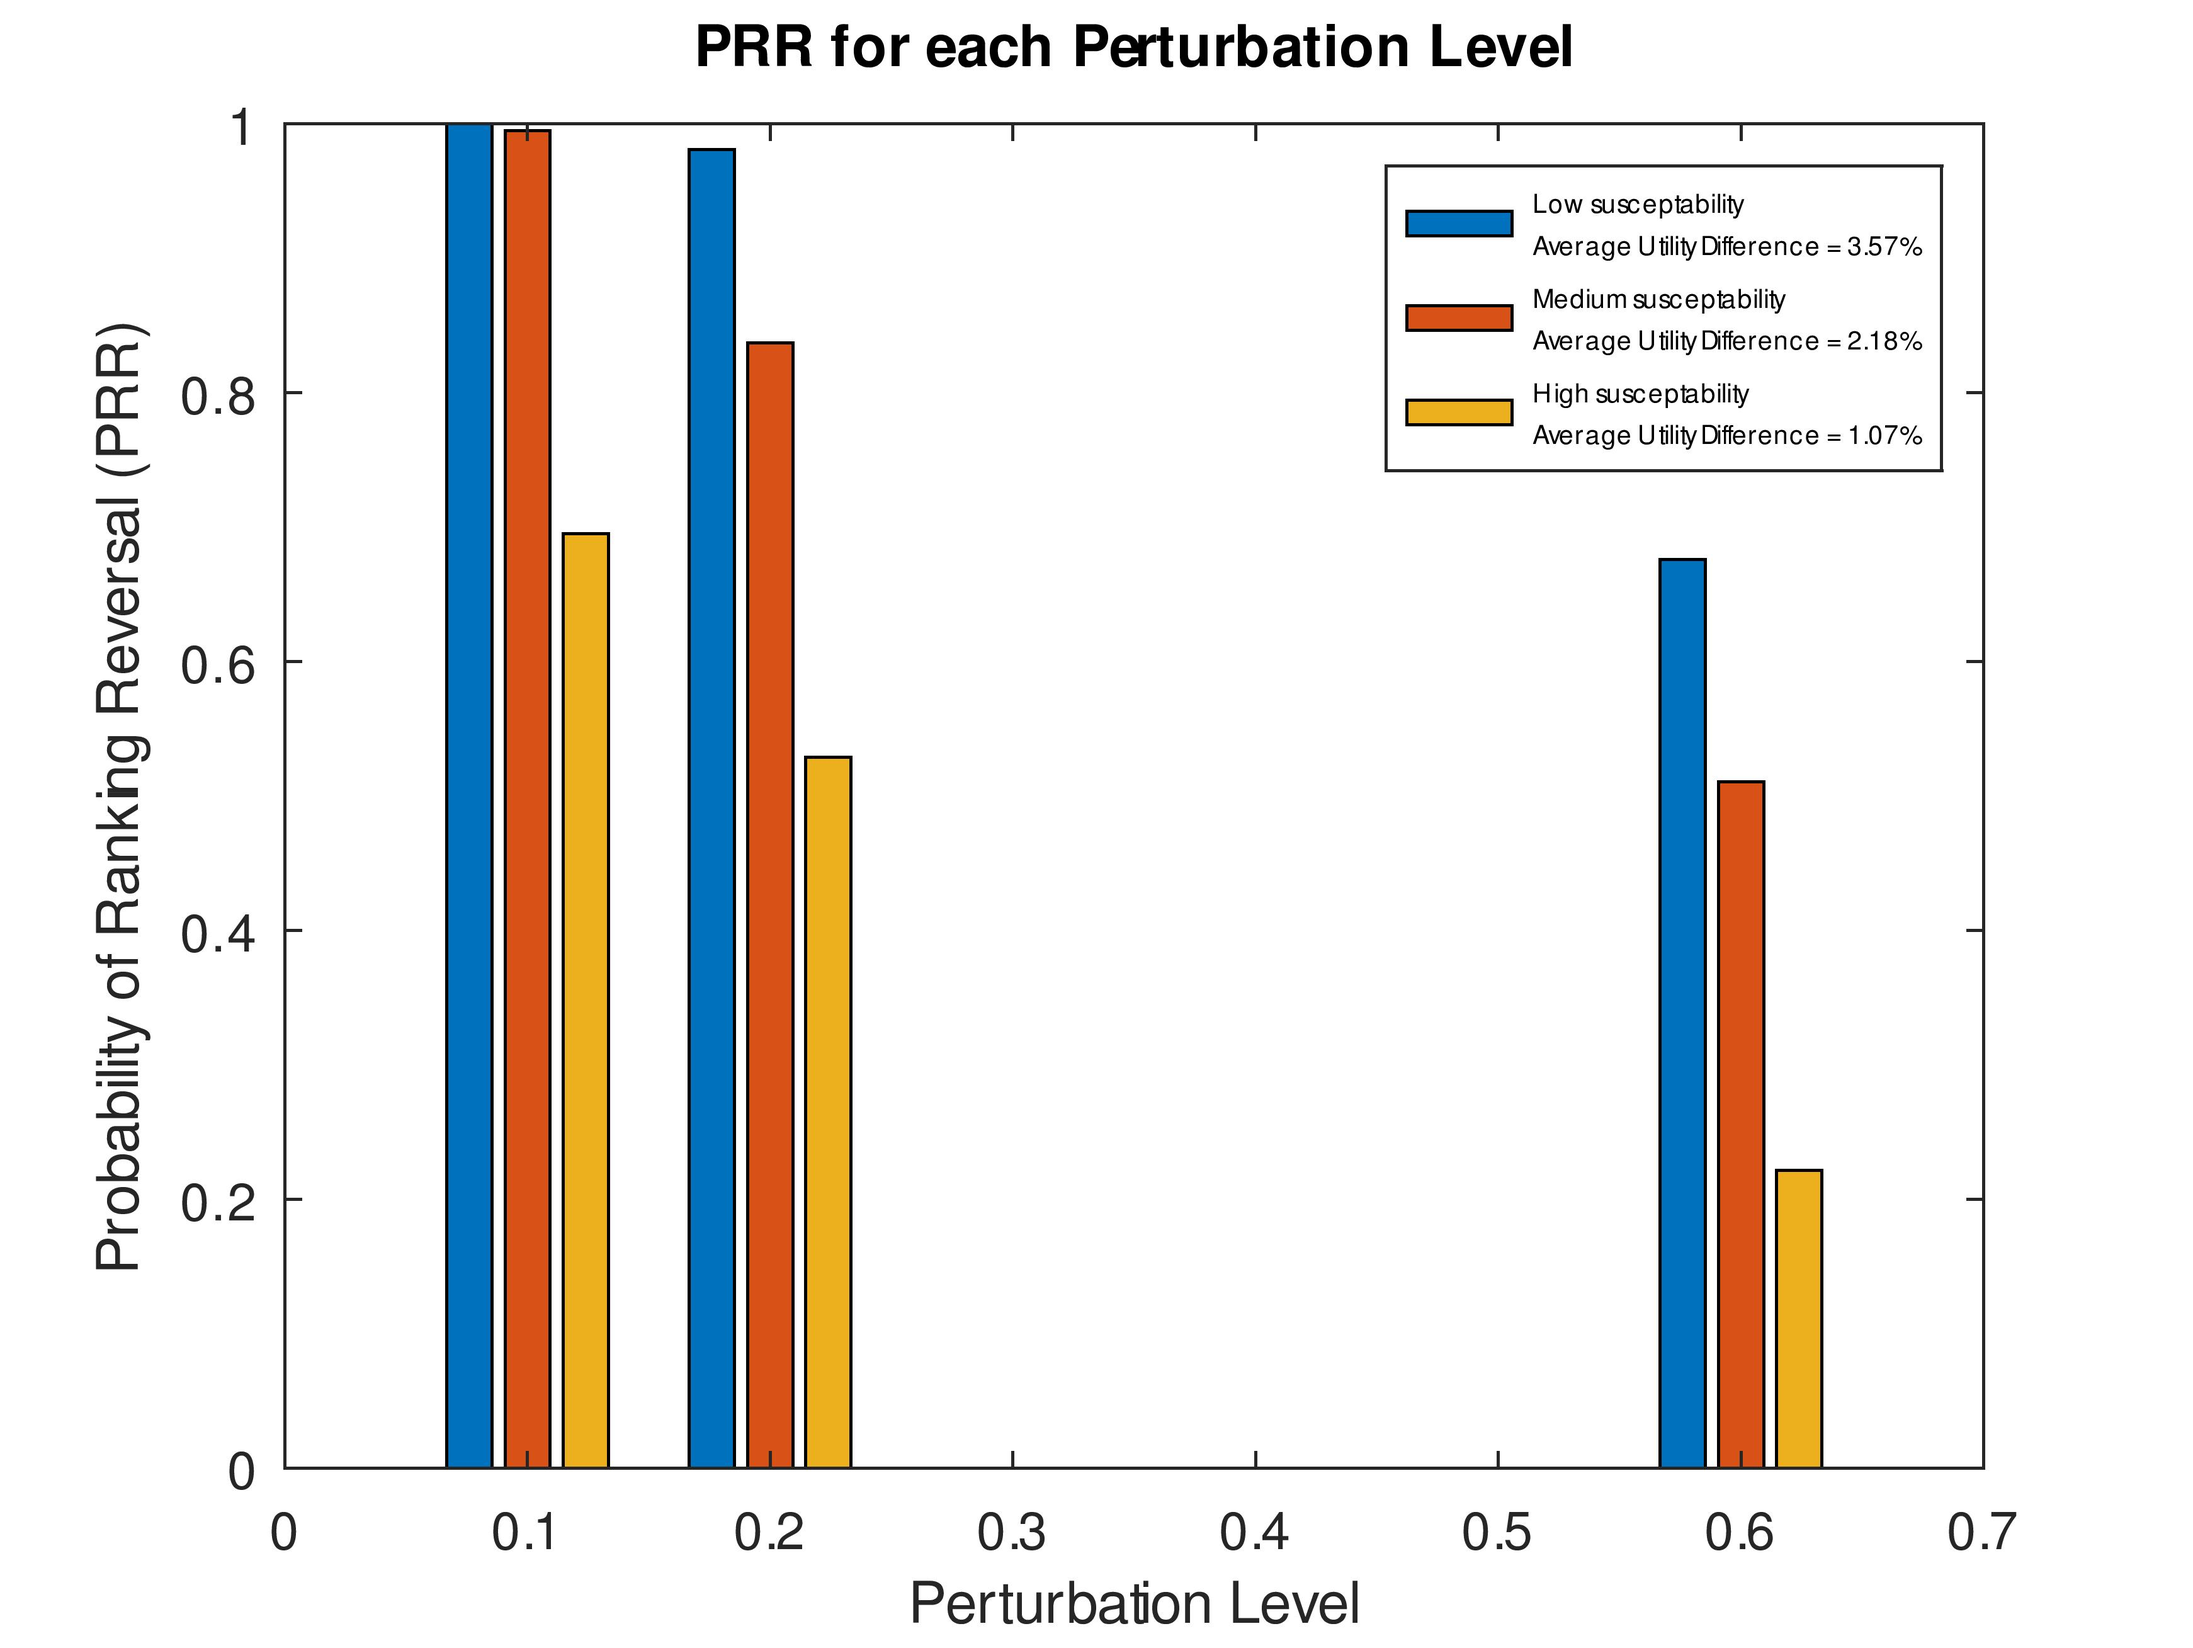
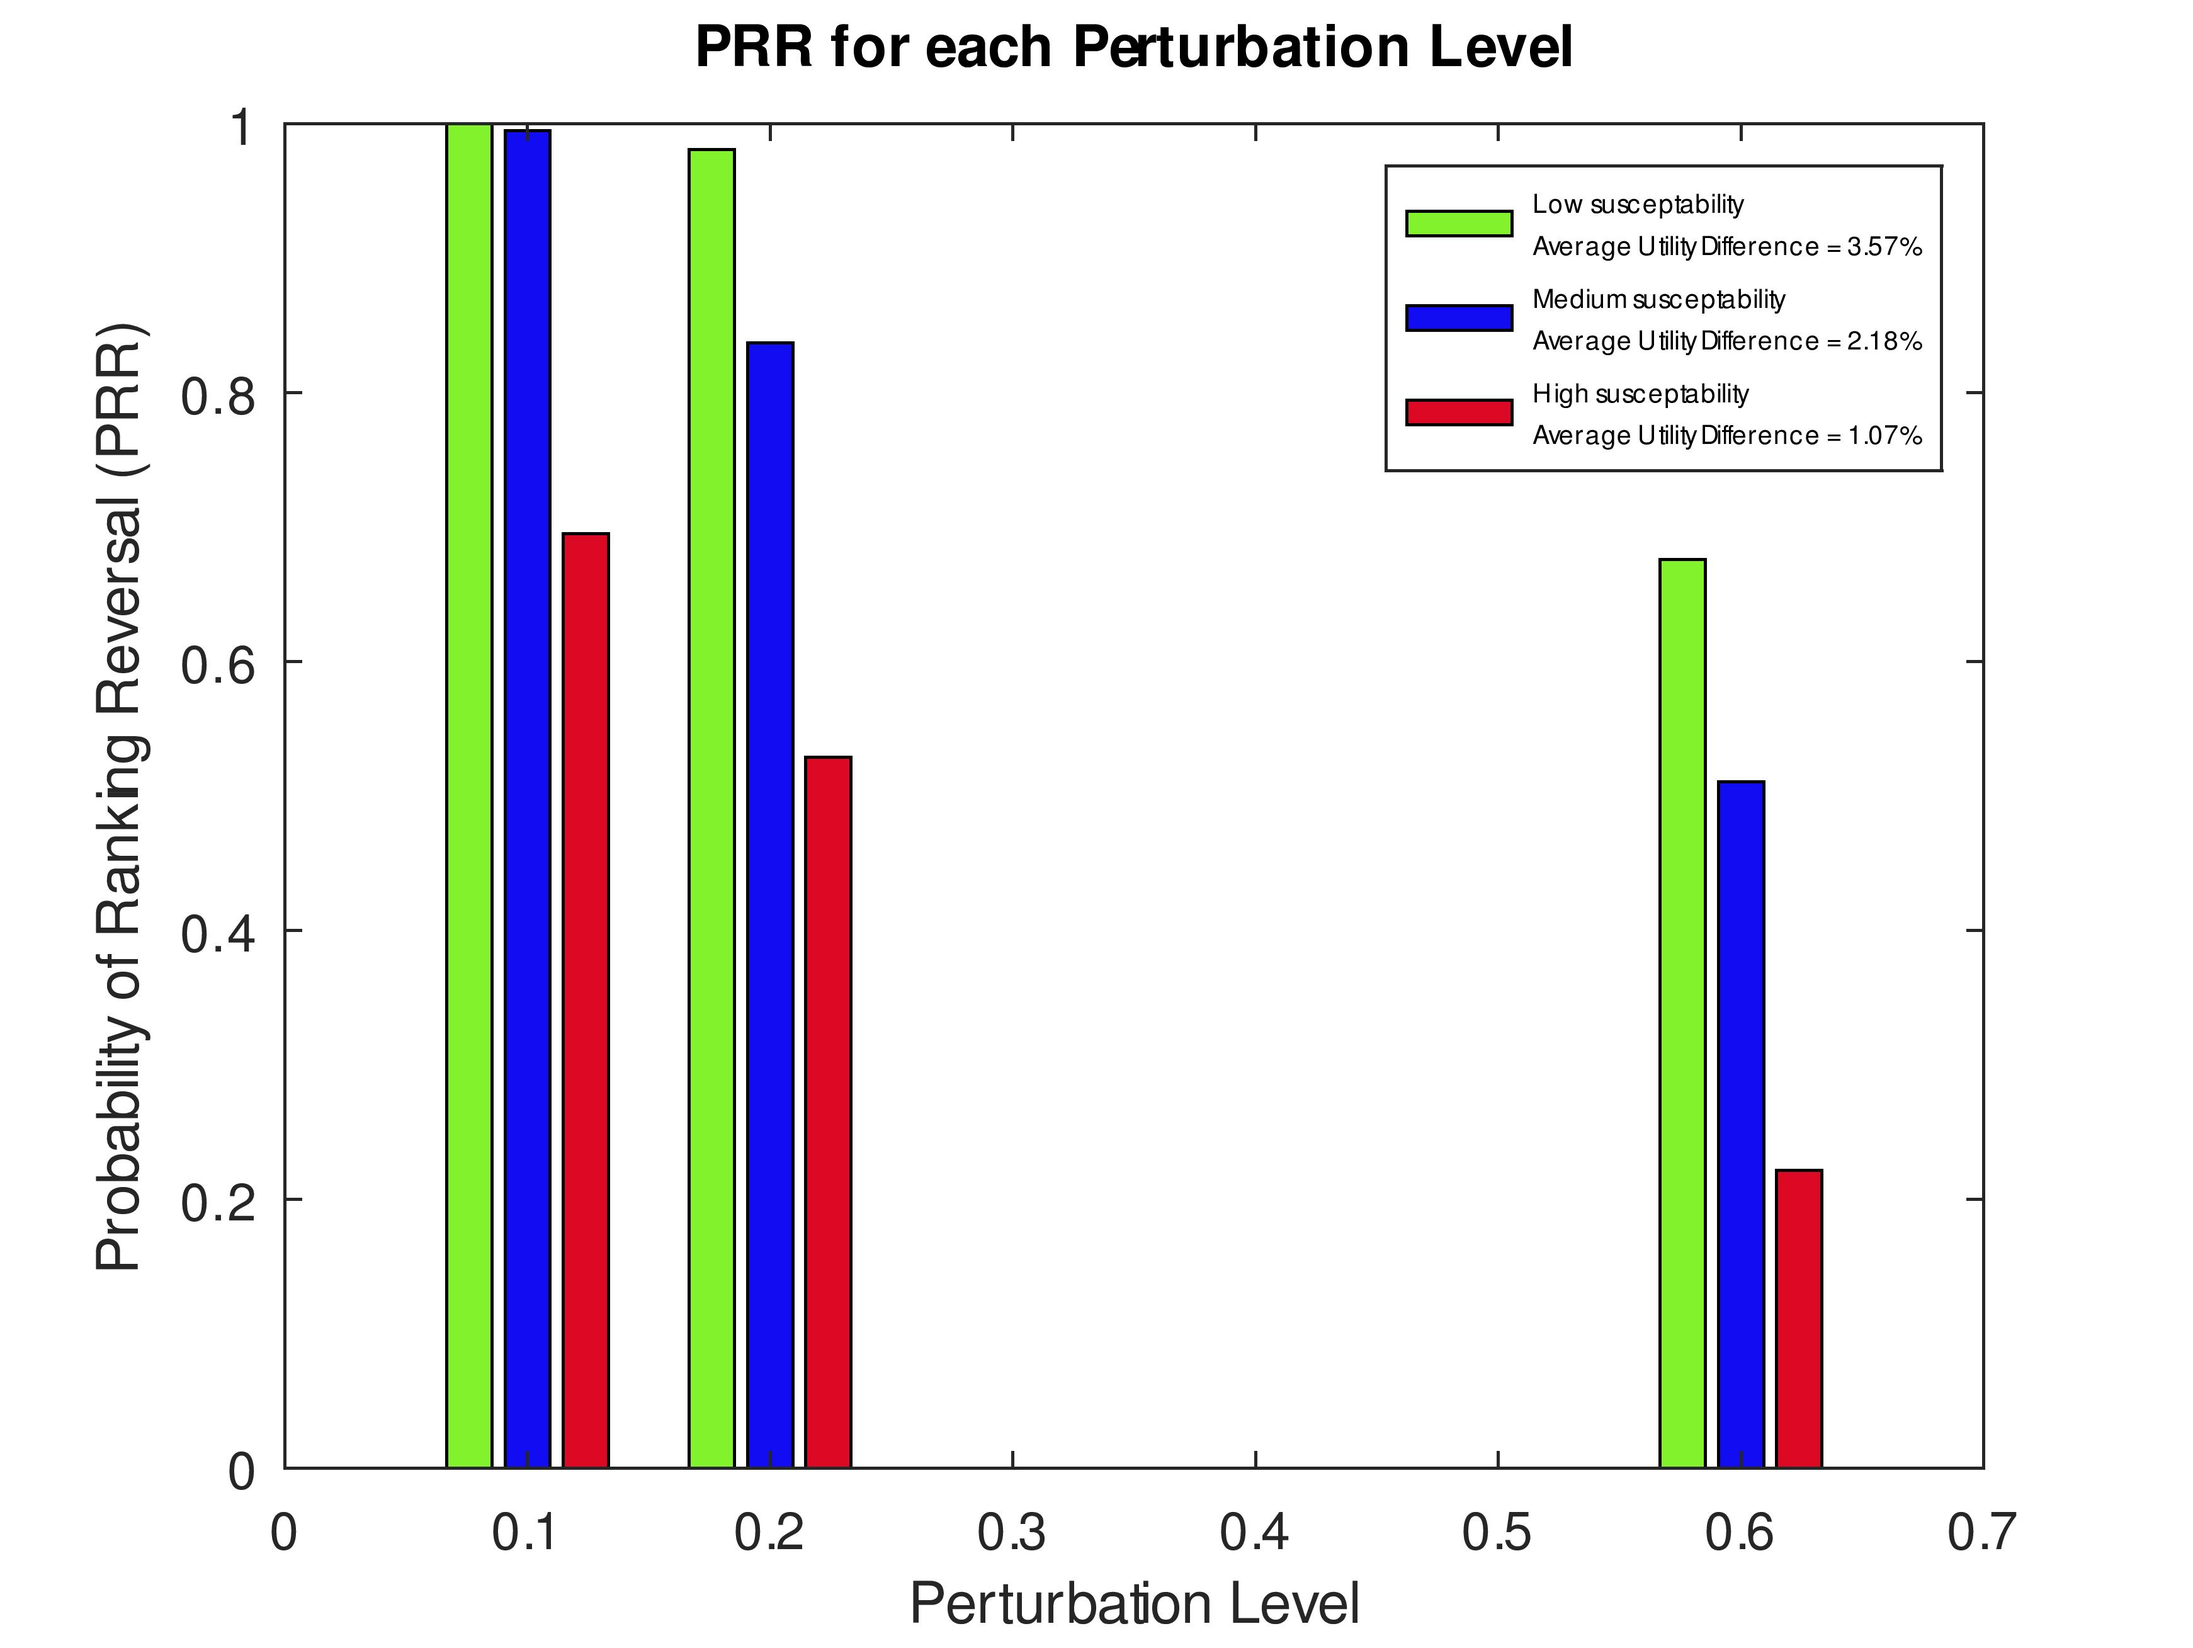
Fixed bar chart colors

diff --git a/combine_charts.m b/combine_charts.m
@@ -39,33 +39,40 @@ end
 
 
 % Combine all line charts together by pertubation level
-for si = 1:size(s,1)
-    figure;
-    for i = 1:3
-        [susceptibility_lvl, susceptibility_lvl_full, susceptibility_chart_color] = susceptibility(sus_mean_diff(i));
-        semilogx(1:ntimes, sus_PRR_all(i, si, :), 'LineWidth', 1, 'Color', susceptibility_chart_color);
-        hold on;
-    end
-    hold off;
-    legend([sprintf('High susceptability\nAverage Utility Difference = '), num2str(sus_mean_diff(1) * 100)(1:4), '%'],
-            [sprintf('Medium susceptability\nAverage Utility Difference = '), num2str(sus_mean_diff(2) * 100)(1:4), '%'],
-            [sprintf('Low susceptability\nAverage Utility Difference = '), num2str(sus_mean_diff(3) * 100)(1:4), '%'],
-            'Location', 'northwest', 'FontSize', 5);
-    xlabel('Iterations');
-    ylabel('Probability of Ranking Reversal (PRR)');
-    title(['PRR per Iteration for Perturbation Level: ', num2str(s(si))]);
+% for si = 1:size(s,1)
+%     figure;
+%     for i = 1:3
+%         [susceptibility_lvl, susceptibility_lvl_full, susceptibility_chart_color] = susceptibility(sus_mean_diff(i));
+%         semilogx(1:ntimes, sus_PRR_all(i, si, :), 'LineWidth', 1, 'Color', susceptibility_chart_color);
+%         hold on;
+%     end
+%     hold off;
+%     legend([sprintf('High susceptability\nAverage Utility Difference = '), num2str(sus_mean_diff(1) * 100)(1:4), '%'],
+%             [sprintf('Medium susceptability\nAverage Utility Difference = '), num2str(sus_mean_diff(2) * 100)(1:4), '%'],
+%             [sprintf('Low susceptability\nAverage Utility Difference = '), num2str(sus_mean_diff(3) * 100)(1:4), '%'],
+%             'Location', 'northwest', 'FontSize', 5);
+%     xlabel('Iterations');
+%     ylabel('Probability of Ranking Reversal (PRR)');
+%     title(['PRR per Iteration for Perturbation Level: ', num2str(s(si))]);
 
-    print(['./charts/all_PRR_per_Iteration_PertLvl_', num2str(s(si)), '.jpg'], '-djpg', "-r600");
-    close;
-end
+%     print(['./charts/all_PRR_per_Iteration_PertLvl_', num2str(s(si)), '.jpg'], '-djpg', "-r600");
+%     close;
+% end
 
 % Combine all bar charts together by pertubation level
 figure;
-bar(s, flipud(sus_PRR_per_pert));
+b = bar(s, flipud(sus_PRR_per_pert));
 legend([sprintf('Low susceptability\nAverage Utility Difference = '), num2str(sus_mean_diff(3) * 100)(1:4), '%'],
         [sprintf('Medium susceptability\nAverage Utility Difference = '), num2str(sus_mean_diff(2) * 100)(1:4), '%'],
         [sprintf('High susceptability\nAverage Utility Difference = '), num2str(sus_mean_diff(1) * 100)(1:4), '%'],
         'FontSize', 5);
+
+%Set the colors of the bars
+for i = 3:-1:1
+    [susceptibility_lvl, susceptibility_lvl_full, susceptibility_chart_color] = susceptibility(sus_mean_diff(i));
+    set(b(4-i), 'FaceColor', susceptibility_chart_color);
+end
+
 xlabel('Perturbation Level');
 ylabel('Probability of Ranking Reversal (PRR)');
 title('PRR for each Perturbation Level');
